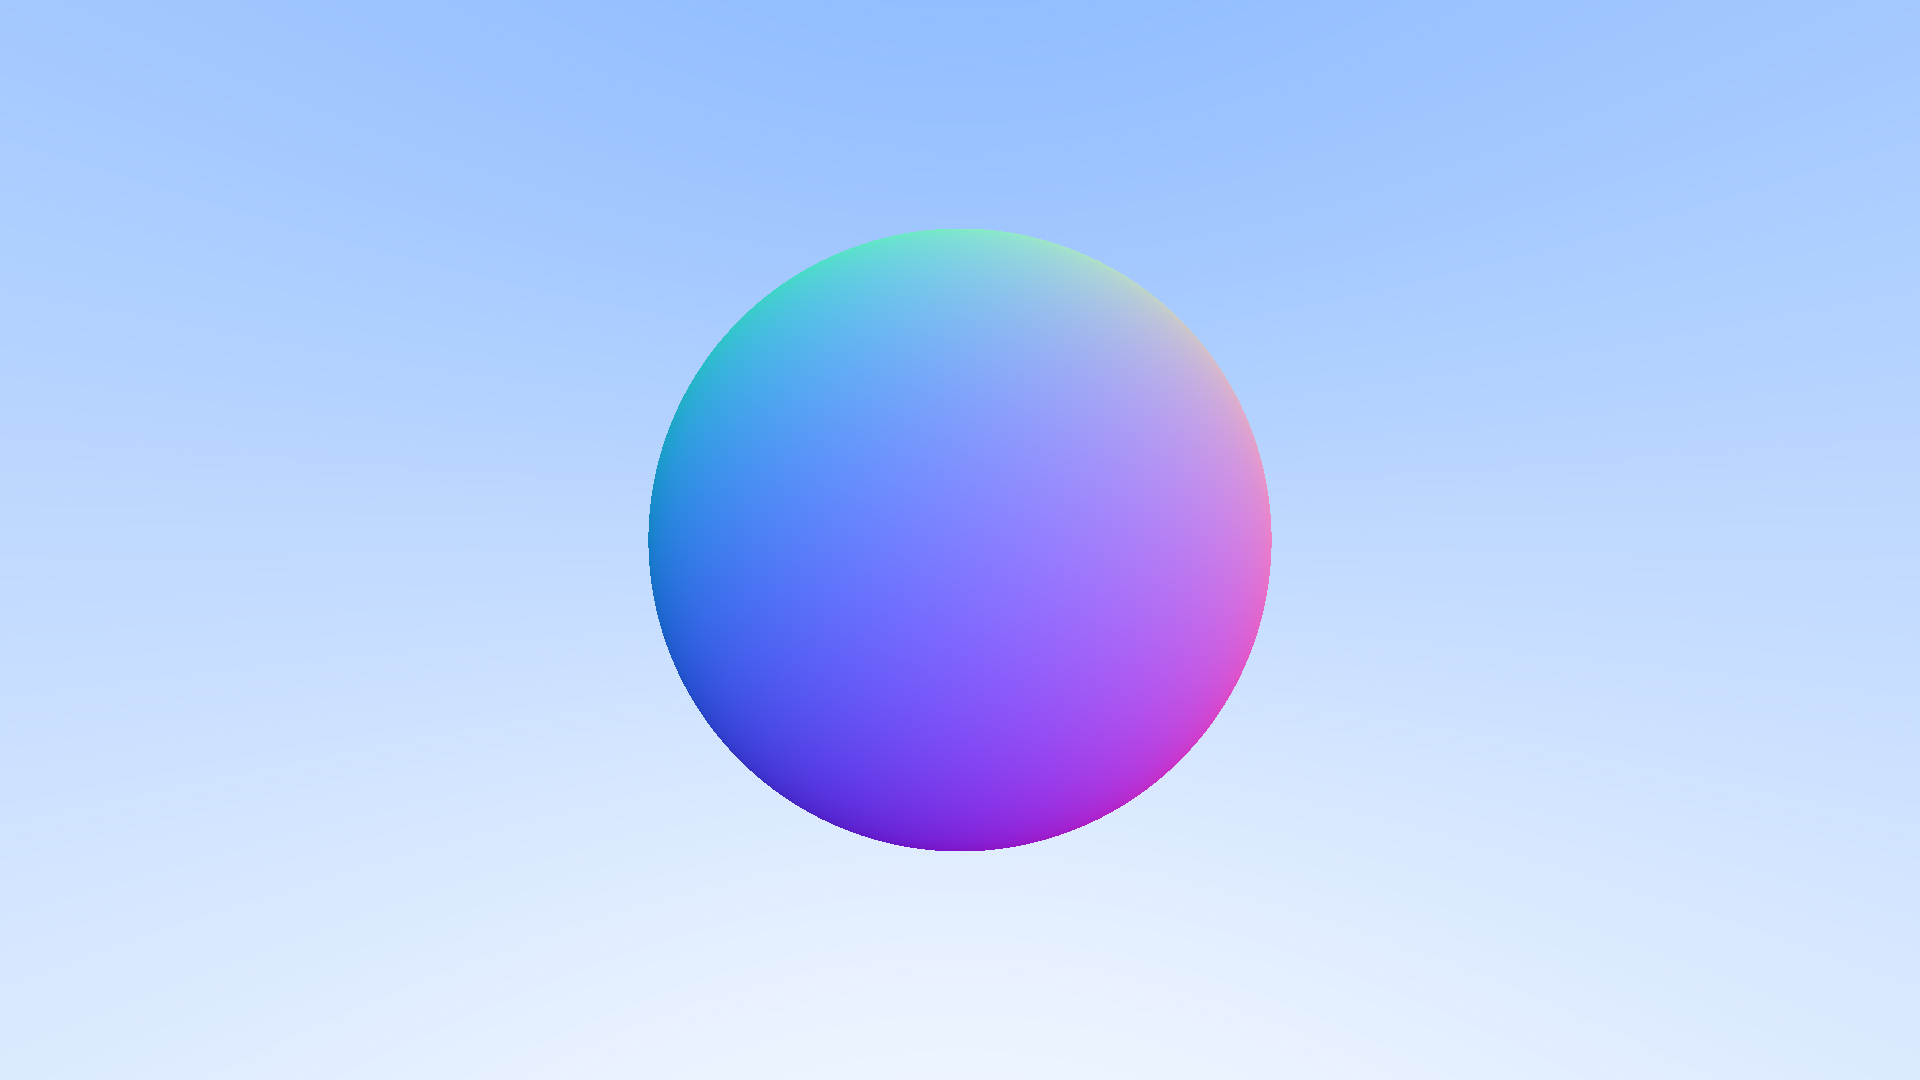
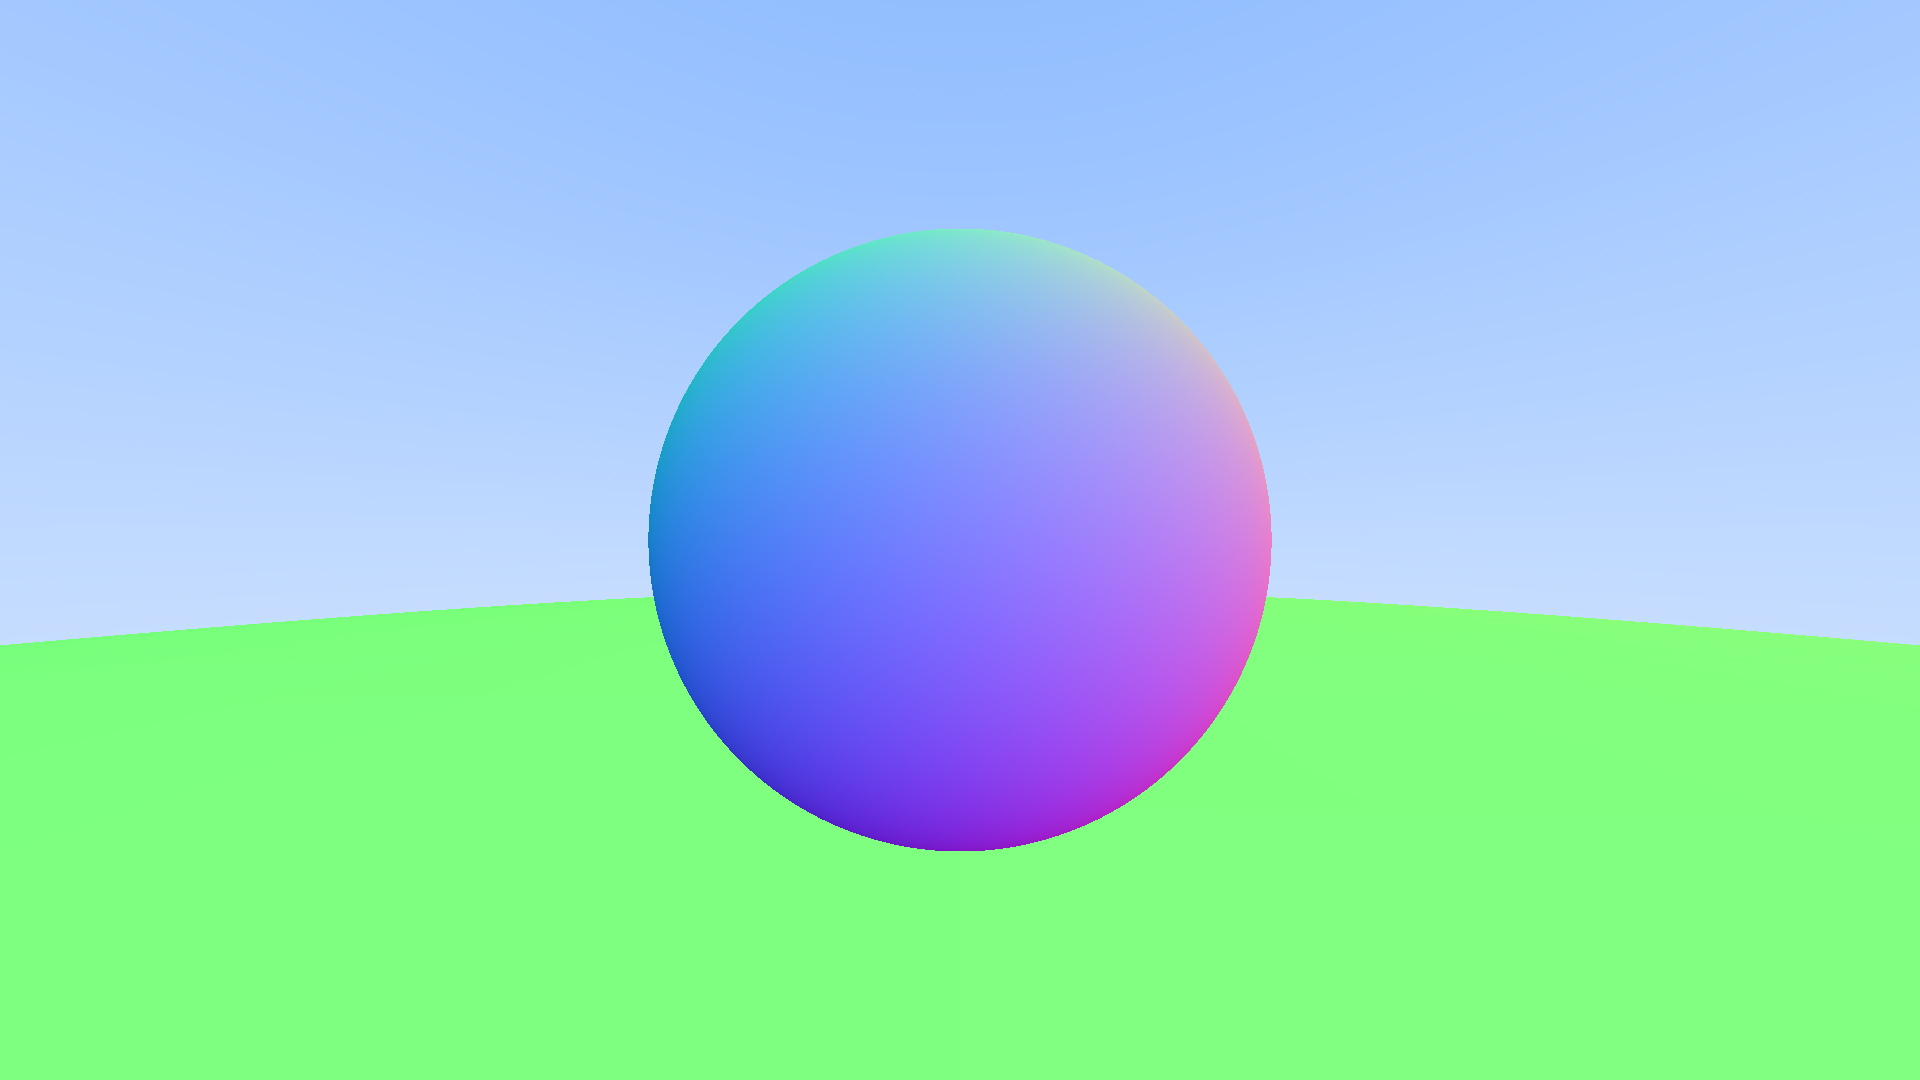
Looping over list of hittable objects

diff --git a/src/main.cpp b/src/main.cpp
@@ -1,30 +1,17 @@
-#include <iostream>
-#include <vector>
+#include <main.h>
 
-#define STB_IMAGE_IMPLEMENTATION
-#define STB_IMAGE_WRITE_IMPLEMENTATION
+#include <hittable_list.h>
 
-#include <stb_image.h>
-#include <stb_image_write.h>
-
-#include <vec3.h>
-#include <ray.h>
-#include <sphere.h>
 
 // Here, we compute at which point in time the ray would hit the sphere
-Vec3 ray_color(const Ray &aRay) {
-    Sphere sphere(Vec3(0, 0, -1), 0.5);
+Vec3 ray_color(const Ray &aRay, const Hittable &world) {
     HitRecord record;
-    bool hit = sphere.hit(aRay, 0.0, std::numeric_limits<float>::infinity(), record);
-
+    bool hit = world.hit(aRay, 0.0, infinity, record);
     if (hit) {
-        // Find the directional vector by subtracting the origin from the hit point
-        Vec3 normalAtIntersection = record.mNormalAtHitPoint;
-        return 0.5 * (normalAtIntersection + 1);
+        return 0.5 * (record.mNormalAtHitPoint + 1);
     }
-    float normalizedDirectionY = aRay.direction().normalize().y();
     // Project the [-1,1] y segment into [0,1] segment in order to use lerp for color blending
-    float t = 0.5f * (normalizedDirectionY + 1);
+    float t = 0.5f * (aRay.direction().normalize().y() + 1);
     return (1 - t) * Vec3(1.0, 1.0, 1.0) + t * Vec3(0.5, 0.7, 1.0);
 }
 
@@ -34,6 +21,10 @@ int main() {
     const float aspectRatio = 16.0f / 9.0f;
     const int32_t imageWidth = 1920;
     const auto imageHeight = static_cast<int32_t>(imageWidth / aspectRatio);
+
+    HittableList world;
+    world.add(std::make_shared<Sphere>(Vec3(0, 0, -1), 0.5));
+    world.add(std::make_shared<Sphere>(Vec3(0, -100.5, -1), 100));
 
     // Configure camera parameters
 
@@ -60,7 +51,7 @@ int main() {
 
             // Check this 3D Math
             Ray r(origin, lowerLeft + u * horizontal + v * vertical - origin);
-            Vec3 color = ray_color(r);
+            Vec3 color = ray_color(r, world);
 
             buffer[index++] = static_cast<unsigned char>(255.999 * color.r());
             buffer[index++] = static_cast<unsigned char>(255.999 * color.g());

diff --git a/src/hittable_list.cpp b/src/hittable_list.cpp
@@ -1,0 +1,31 @@
+#include <hittable_list.h>
+
+HittableList::HittableList() {
+
+}
+
+void HittableList::clear() {
+    mHittables.clear();
+}
+
+void HittableList::add(const std::shared_ptr<Hittable> &aHittable) {
+    mHittables.push_back(aHittable);
+}
+
+bool HittableList::hit(const Ray &aRay, float tMin, float tMax, HitRecord &aHistory) const {
+    HitRecord record;
+    bool hit = false;
+    float closest = tMax;
+
+    for (const auto &object: mHittables) {
+        if (object->hit(aRay, tMin, closest, record)) {
+            hit = true;
+            if (record.t < closest) {
+                aHistory = record;
+                closest = aHistory.t;
+            }
+        }
+
+    }
+    return hit;
+}

diff --git a/include/main.h b/include/main.h
@@ -1,0 +1,24 @@
+#ifndef RAYTRACING1WEEKEND_MAIN_H
+#define RAYTRACING1WEEKEND_MAIN_H
+
+#include <iostream>
+#include <vector>
+
+#define STB_IMAGE_IMPLEMENTATION
+#define STB_IMAGE_WRITE_IMPLEMENTATION
+
+#include <stb_image.h>
+#include <stb_image_write.h>
+
+#include <vec3.h>
+#include <ray.h>
+#include <sphere.h>
+
+constexpr float infinity = std::numeric_limits<float>::infinity();
+constexpr float pi = 3.1415926535897932385;
+
+inline float deg2rad(float degrees) {
+    return degrees * pi / 180.0;
+}
+
+#endif //RAYTRACING1WEEKEND_MAIN_H

diff --git a/include/hittable_list.h b/include/hittable_list.h
@@ -1,0 +1,25 @@
+#ifndef RAYTRACING1WEEKEND_HITTABLE_LIST_H
+#define RAYTRACING1WEEKEND_HITTABLE_LIST_H
+
+#include <vector>
+#include <memory>
+
+#include <hittable.h>
+
+class HittableList : public Hittable {
+public:
+    HittableList();
+
+    void clear();
+
+    void add(const std::shared_ptr<Hittable>& aHittable);
+
+    virtual bool hit(const Ray &aRay, float tMin, float tMax, HitRecord &aHistory) const override;
+
+private:
+    std::vector<std::shared_ptr<Hittable>> mHittables;
+};
+
+#endif //RAYTRACING1WEEKEND_HITTABLE_LIST_H
+
+

diff --git a/include/hittable.h b/include/hittable.h
@@ -7,6 +7,14 @@ struct HitRecord {
     Vec3 mHitPoint;
     Vec3 mNormalAtHitPoint;
     float t;
+    bool mHitFrontFace;
+
+    inline void setFaceNormal(const Ray &aRay, const Vec3 &outwardNormal) {
+        // If the dot product between vectors is less than zero, then they point in the opposite directions
+        // Hence, we hit the front face of the geometry
+        mHitFrontFace = aRay.direction().dot(outwardNormal) < 0.0f;
+        mNormalAtHitPoint = mHitFrontFace ? outwardNormal : -outwardNormal;
+    }
 };
 
 class Hittable {

diff --git a/src/Sphere.cpp b/src/Sphere.cpp
@@ -29,7 +29,7 @@ bool Sphere::hit(const Ray &aRay, float tMin, float tMax, HitRecord &aHistory) c
         }
         aHistory.t = root;
         aHistory.mHitPoint = aRay.at(root);
-        aHistory.mNormalAtHitPoint = (aHistory.mHitPoint - mCenter).normalize();
+        aHistory.setFaceNormal(aRay, (aHistory.mHitPoint - mCenter).normalize());
         return true;
     }
 }
